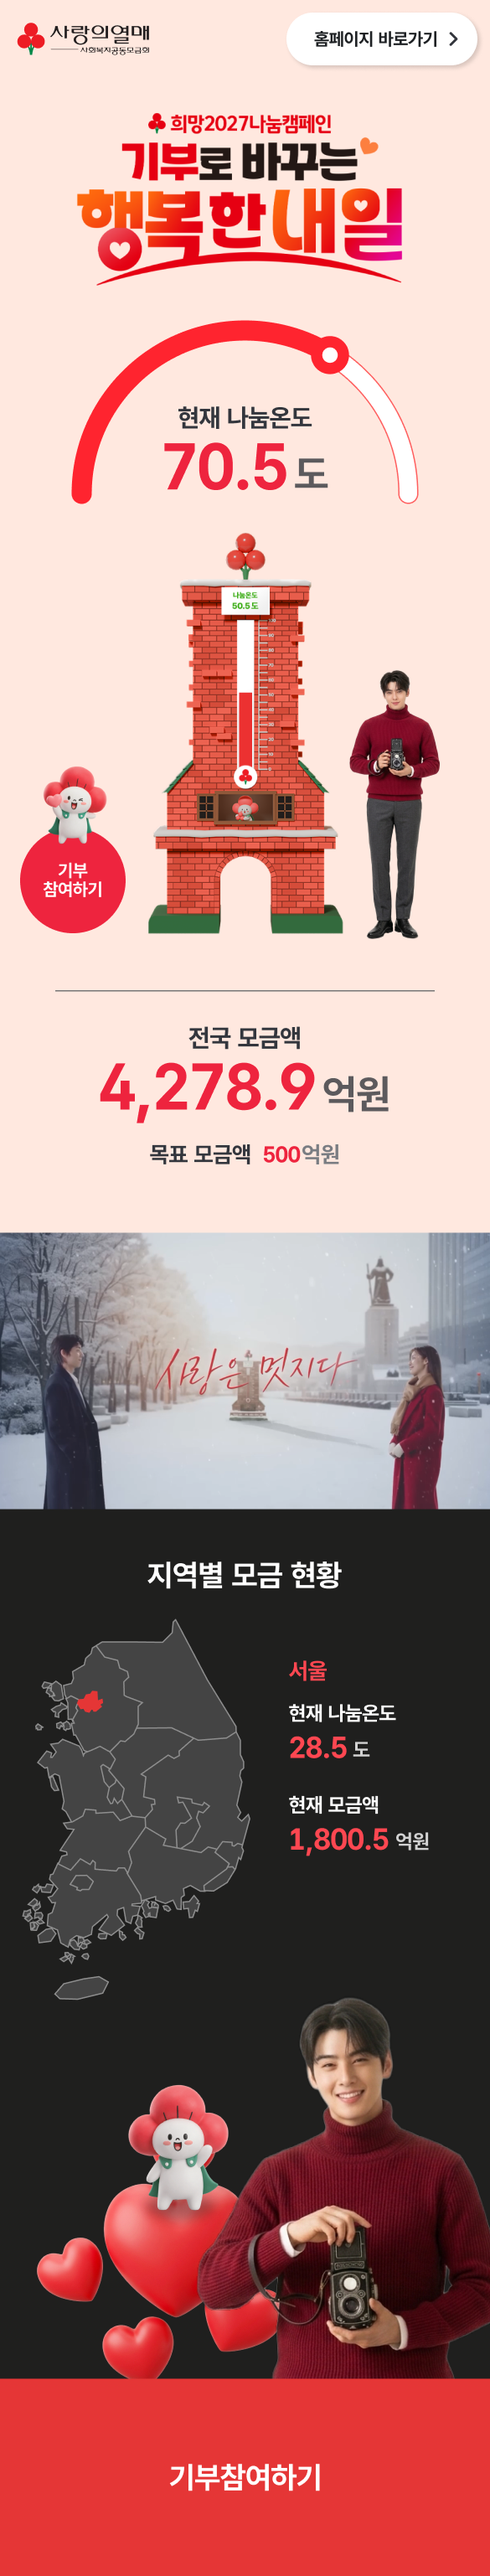
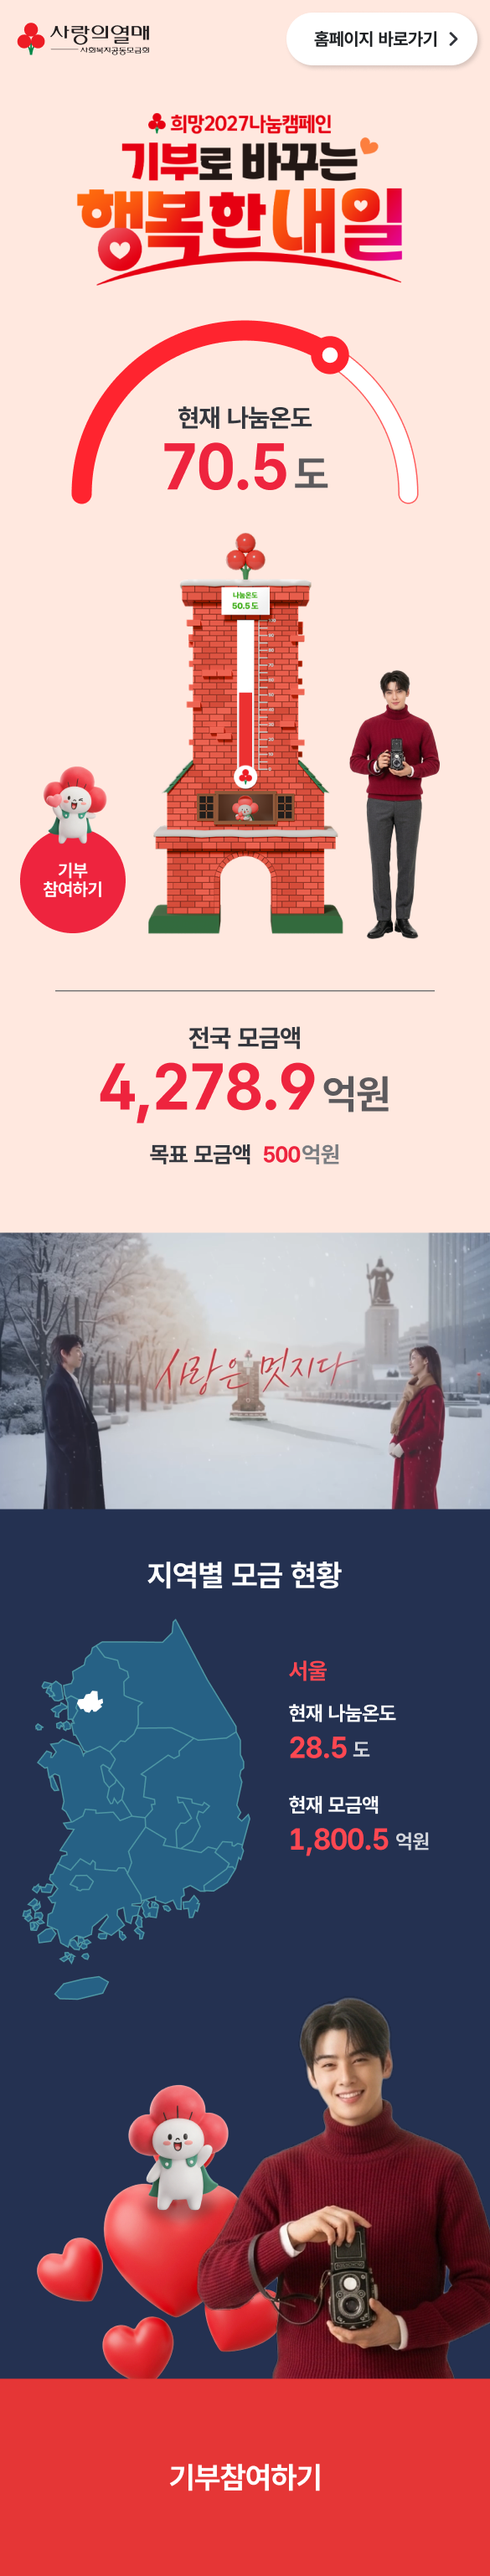
commit-1024-1

Changed region(s): [[0.0, 0.562, 1.0, 0.9366], [0.9231, 0.9054, 1.0, 0.9366]]

diff --git a/campaign_2027/index.html b/campaign_2027/index.html
@@ -51,6 +51,38 @@
           </a>
         </div>
       </div>
+      <div class="draft-block">
+        <div class="title-wrap">
+          <h2>header banner 시안</h2>
+        </div>
+        <div class="links-wrap">
+          <a class="link-item" target="_blank" href="./banner_a.html">
+            <h4>Type-A</h4>
+            <p>Desktop</p>
+          </a>
+          <a class="link-item" target="_blank" href="./banner_a_mo.html">
+            <h4>Type-A</h4>
+            <p>Mobile</p>
+          </a>
+          <a class="link-item" target="_blank" href="./banner_b.html">
+            <h4>Type-B</h4>
+            <p>Desktop</p>
+          </a>
+          <a class="link-item" target="_blank" href="./banner_b_mo.html">
+            <h4>Type-B</h4>
+            <p>Mobile</p>
+          </a>
+          <a class="link-item" target="_blank" href="./banner_c.html">
+            <h4>Type-C</h4>
+            <p>Desktop</p>
+          </a>
+          <a class="link-item" target="_blank" href="./banner_c_mo.html">
+            <h4>Type-C</h4>
+            <p>Mobile</p>
+          </a>
+
+        </div>
+      </div>
     </div>
   </div>
 

diff --git a/campaign_2027/css/banner.css b/campaign_2027/css/banner.css
@@ -1,0 +1,20 @@
+*{ 
+    margin:0; padding:0; box-sizing:border-box; 
+    font-family: 'Noto Sans KR', sans-serif; 
+}
+.page-wrap{
+    width:100%; display:flex; 
+    flex-direction: column;
+    >.container{
+        width:100%; max-width: 1920px;
+        position: relative; margin: 0 auto;
+        img{ max-width: 100%; }
+    }
+    img{ max-width: 100%; }
+    &.mo{
+        background-color: rgb(175, 180, 184); min-height: 100vh;
+        >.container{
+            max-width: 400px; margin-top: 72px;
+        }
+    }
+}

diff --git a/campaign_2027/css/type_b.css b/campaign_2027/css/type_b.css
@@ -125,9 +125,9 @@ html{ overflow-x:hidden; }
 
 .hero-background {
   display: block; width:100%; height:100vh; min-height:800px;
-  position: fixed; background-color:  #F9E4D7;
+  position: fixed; background-color:  #EAEFF0;
   background-repeat: repeat-x;
-  background-image: url('../img/b_back_1.jpg');
+  background-image: url('../img/b_back_2.jpg');
   >.hero-background-2{
     display: block; width:100%; height:100vh; min-height:800px;
     background: linear-gradient(180deg, #cbd7db 10%, #f9e5d4 70%);

diff --git a/campaign_2027/banner_a.html b/campaign_2027/banner_a.html
@@ -1,0 +1,20 @@
+<!doctype html>
+<html lang="ko">
+<head>
+  <meta charset="utf-8">
+  <meta name="viewport" content="width=device-width, initial-scale=1, viewport-fit=cover">
+  <title>희망2027 나눔캠페인</title>
+  <link rel="stylesheet" href="./css/banner.css">
+</head>
+<body>
+<div class="page-wrap">
+  <div class="container">
+    <a href="./banner_b.html">
+      <img src="./img/head_banner_a.png" >
+      <img src="./img/dummy_home.png" >
+    </a>    
+  </div>
+</div>
+
+</body>
+</html>

diff --git a/campaign_2027/banner_b.html b/campaign_2027/banner_b.html
@@ -1,0 +1,20 @@
+<!doctype html>
+<html lang="ko">
+<head>
+  <meta charset="utf-8">
+  <meta name="viewport" content="width=device-width, initial-scale=1, viewport-fit=cover">
+  <title>희망2027 나눔캠페인</title>
+  <link rel="stylesheet" href="./css/banner.css">
+</head>
+<body>
+<div class="page-wrap">
+  <div class="container">
+    <a href="./banner_c.html">
+      <img src="./img/head_banner_b.png" >
+      <img src="./img/dummy_home.png" >
+    </a>    
+  </div>
+</div>
+
+</body>
+</html>

diff --git a/campaign_2027/banner_c.html b/campaign_2027/banner_c.html
@@ -1,0 +1,20 @@
+<!doctype html>
+<html lang="ko">
+<head>
+  <meta charset="utf-8">
+  <meta name="viewport" content="width=device-width, initial-scale=1, viewport-fit=cover">
+  <title>희망2027 나눔캠페인</title>
+  <link rel="stylesheet" href="./css/banner.css">
+</head>
+<body>
+<div class="page-wrap">
+  <div class="container">
+    <a href="./banner_a.html">
+      <img src="./img/head_banner_c.png" >
+      <img src="./img/dummy_home.png" >
+    </a>    
+  </div>
+</div>
+
+</body>
+</html>

diff --git a/campaign_2027/banner_a_mo.html b/campaign_2027/banner_a_mo.html
@@ -1,0 +1,19 @@
+<!doctype html>
+<html lang="ko">
+<head>
+  <meta charset="utf-8">
+  <meta name="viewport" content="width=device-width, initial-scale=1, viewport-fit=cover">
+  <title>희망2027 나눔캠페인</title>
+  <link rel="stylesheet" href="./css/banner.css">
+</head>
+<body>
+<div class="page-wrap mo">
+  <div class="container">
+    <a href="./banner_b_mo.html">
+      <img src="./img/banner_a_mo.png" >
+    </a>    
+  </div>
+</div>
+
+</body>
+</html>

diff --git a/campaign_2027/banner_b_mo.html b/campaign_2027/banner_b_mo.html
@@ -1,0 +1,19 @@
+<!doctype html>
+<html lang="ko">
+<head>
+  <meta charset="utf-8">
+  <meta name="viewport" content="width=device-width, initial-scale=1, viewport-fit=cover">
+  <title>희망2027 나눔캠페인</title>
+  <link rel="stylesheet" href="./css/banner.css">
+</head>
+<body>
+<div class="page-wrap mo">
+  <div class="container">
+    <a href="./banner_c_mo.html">
+      <img src="./img/banner_b_mo.png" >
+    </a>    
+  </div>
+</div>
+
+</body>
+</html>

diff --git a/campaign_2027/banner_c_mo.html b/campaign_2027/banner_c_mo.html
@@ -1,0 +1,19 @@
+<!doctype html>
+<html lang="ko">
+<head>
+  <meta charset="utf-8">
+  <meta name="viewport" content="width=device-width, initial-scale=1, viewport-fit=cover">
+  <title>희망2027 나눔캠페인</title>
+  <link rel="stylesheet" href="./css/banner.css">
+</head>
+<body>
+<div class="page-wrap mo">
+  <div class="container">
+    <a href="./banner_a_mo.html">
+      <img src="./img/banner_c_mo.png" >
+    </a>    
+  </div>
+</div>
+
+</body>
+</html>

diff --git a/campaign_2027/type_b.html b/campaign_2027/type_b.html
@@ -3,7 +3,7 @@
 <head>
   <meta charset="utf-8">
   <meta name="viewport" content="width=device-width, initial-scale=1, viewport-fit=cover">
-  <title>사랑의 온도탑</title>
+  <title>희망2027 나눔캠페인</title>
   <link rel="stylesheet" href="https://cdn.jsdelivr.net/npm/lenis@1.3.23/dist/lenis.css">
   <link rel="stylesheet" href="./css/type_b.css">
   <script type="importmap">

diff --git a/campaign_2027/css/type_d.css b/campaign_2027/css/type_d.css
@@ -127,7 +127,7 @@ html,body{
 
 .popup-local {
   width:0%; height:0%; position: absolute;
-  bottom:0; right:0; background-color: #1F1F1E;
+  bottom:0; right:0; background-color: #243151;
   overflow: hidden; transition: width 0.25s, height 0.25s;
   >.popup-title{
     width: 100%; color:white; font-size: 36px; padding: 32px 40px 0px 40px;
